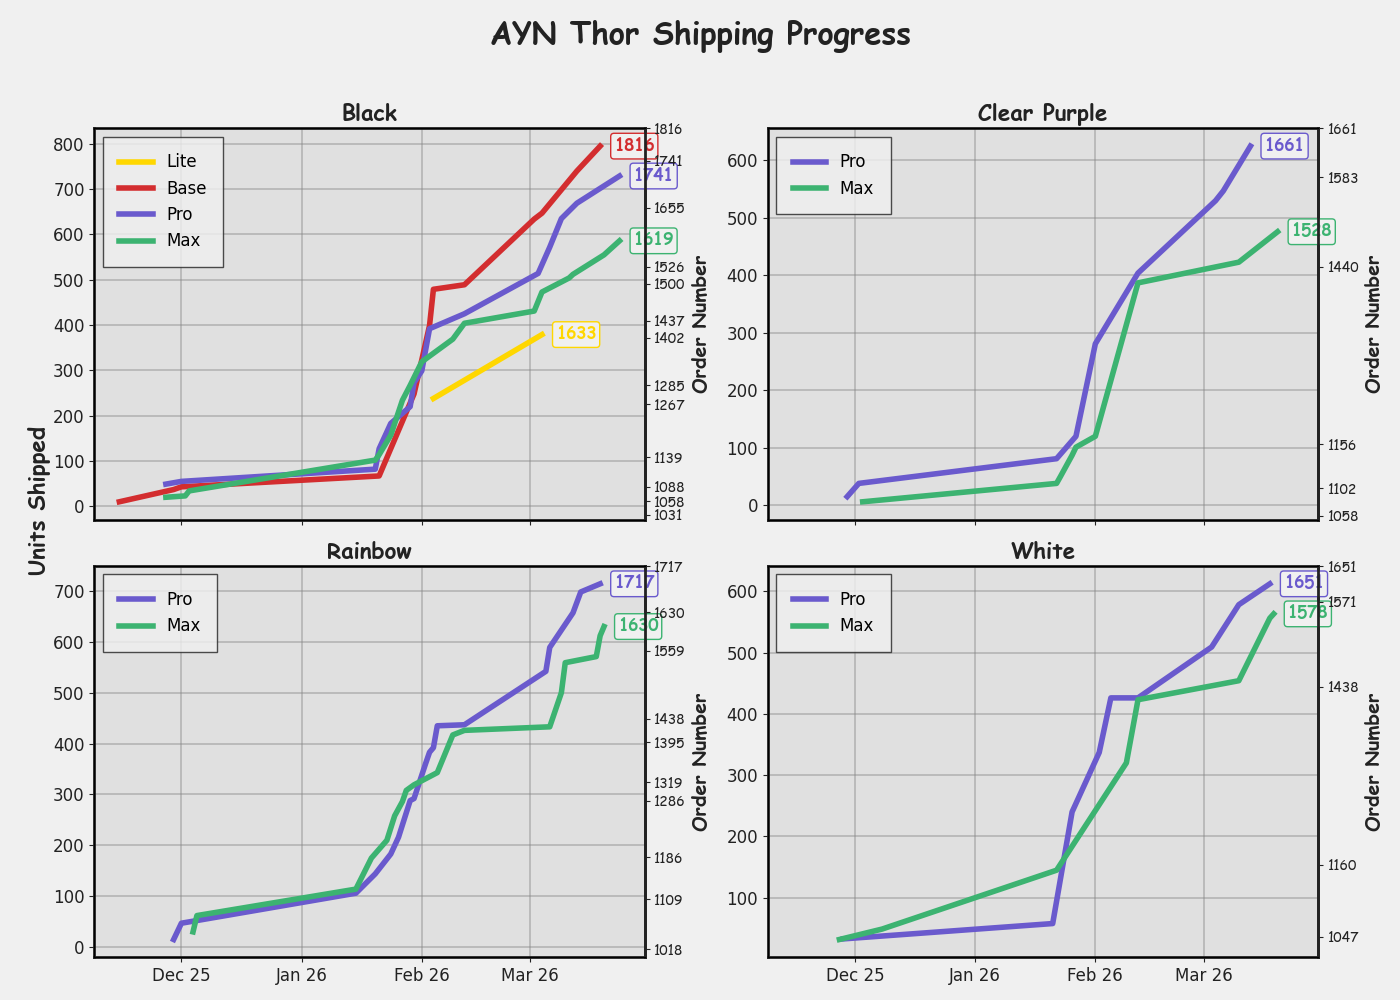
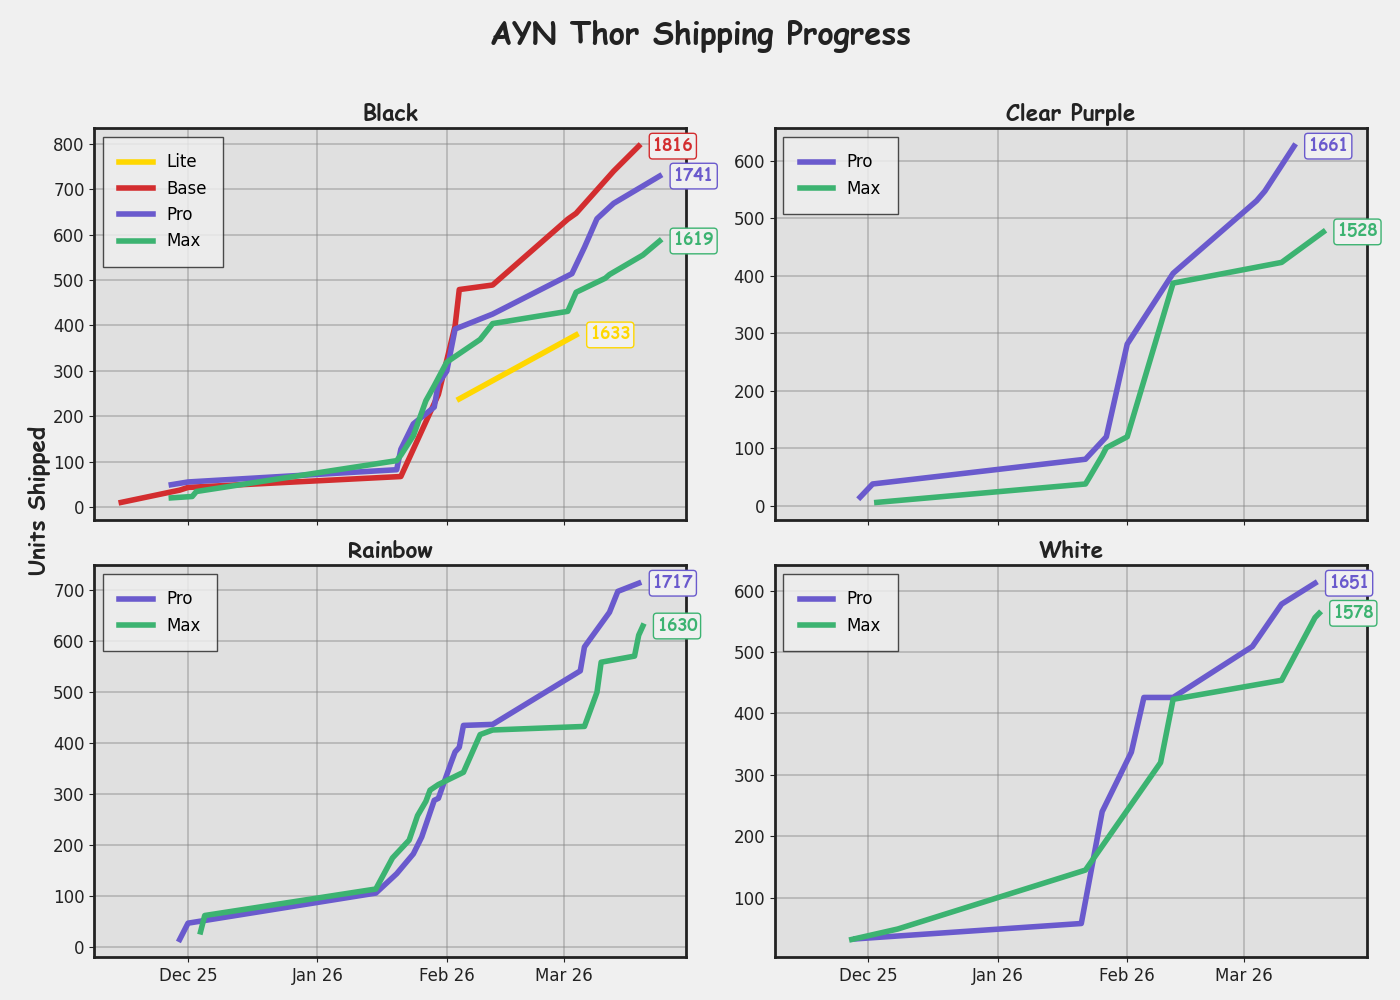
removing bad data

diff --git a/analysis.py b/analysis.py
@@ -101,30 +101,9 @@ for ax, color in zip(axes, colors):
                 # Collect y and label for right y-axis
                 model_cum_y.extend(list(group["cumulative"]))
                 model_end_labels.extend(list(group["end"]))
-    # Set up right y-axis with order numbers, but only show every 4th point to reduce clutter
-    if model_cum_y:
-        ax2 = ax.twinx()
-        # Remove duplicate y values and sort
-        y_pairs = sorted(set(zip(model_cum_y, model_end_labels)), key=lambda x: x[0])
-        # Show every 4th point (and always the last one)
-        if len(y_pairs) > 1:
-            y_pairs_to_show = y_pairs[::4]
-            if y_pairs[-1] not in y_pairs_to_show:
-                y_pairs_to_show.append(y_pairs[-1])
-        else:
-            y_pairs_to_show = y_pairs
-        y_ticks, y_labels = zip(*y_pairs_to_show)
-        ax2.set_yticks(y_ticks)
-        ax2.set_yticklabels([str(int(lbl)) for lbl in y_labels], fontsize=10, color="#222", fontname='Comic Sans MS')
-        ax2.set_ylabel("Order Number", fontsize=14, fontweight='bold', color='#222', fontname='Comic Sans MS')
-        ax2.tick_params(axis='y', colors='#222')
-        ax2.spines['right'].set_linewidth(2)
-        ax2.spines['right'].set_color('#222')
-        ax2.grid(False)
     ax.set_title(f"{color.title()}", fontsize=16, fontweight='bold', color='#222', fontname='Comic Sans MS')
     ax.grid(True, linestyle='-', linewidth=1.2, color='#888', alpha=0.5)
     ax.set_facecolor('#E0E0E0')  # Slightly darker gray for panel
-    # Only show legend for plotted models, in order
     handles, labels = ax.get_legend_handles_labels()
     ordered_handles = [handles[labels.index(m)] for m in MODEL_ORDER if m in labels]
     ordered_labels = [m for m in MODEL_ORDER if m in labels]
@@ -146,7 +125,6 @@ def plot_shipping_progress(output_path=None):
     plt.tight_layout(rect=[0, 0, 1, 0.96])
     if output_path:
         plt.savefig(output_path)
-    #plt.show()
 
 if __name__ == "__main__":
     plot_shipping_progress(output_path="shipping_progress.png")
